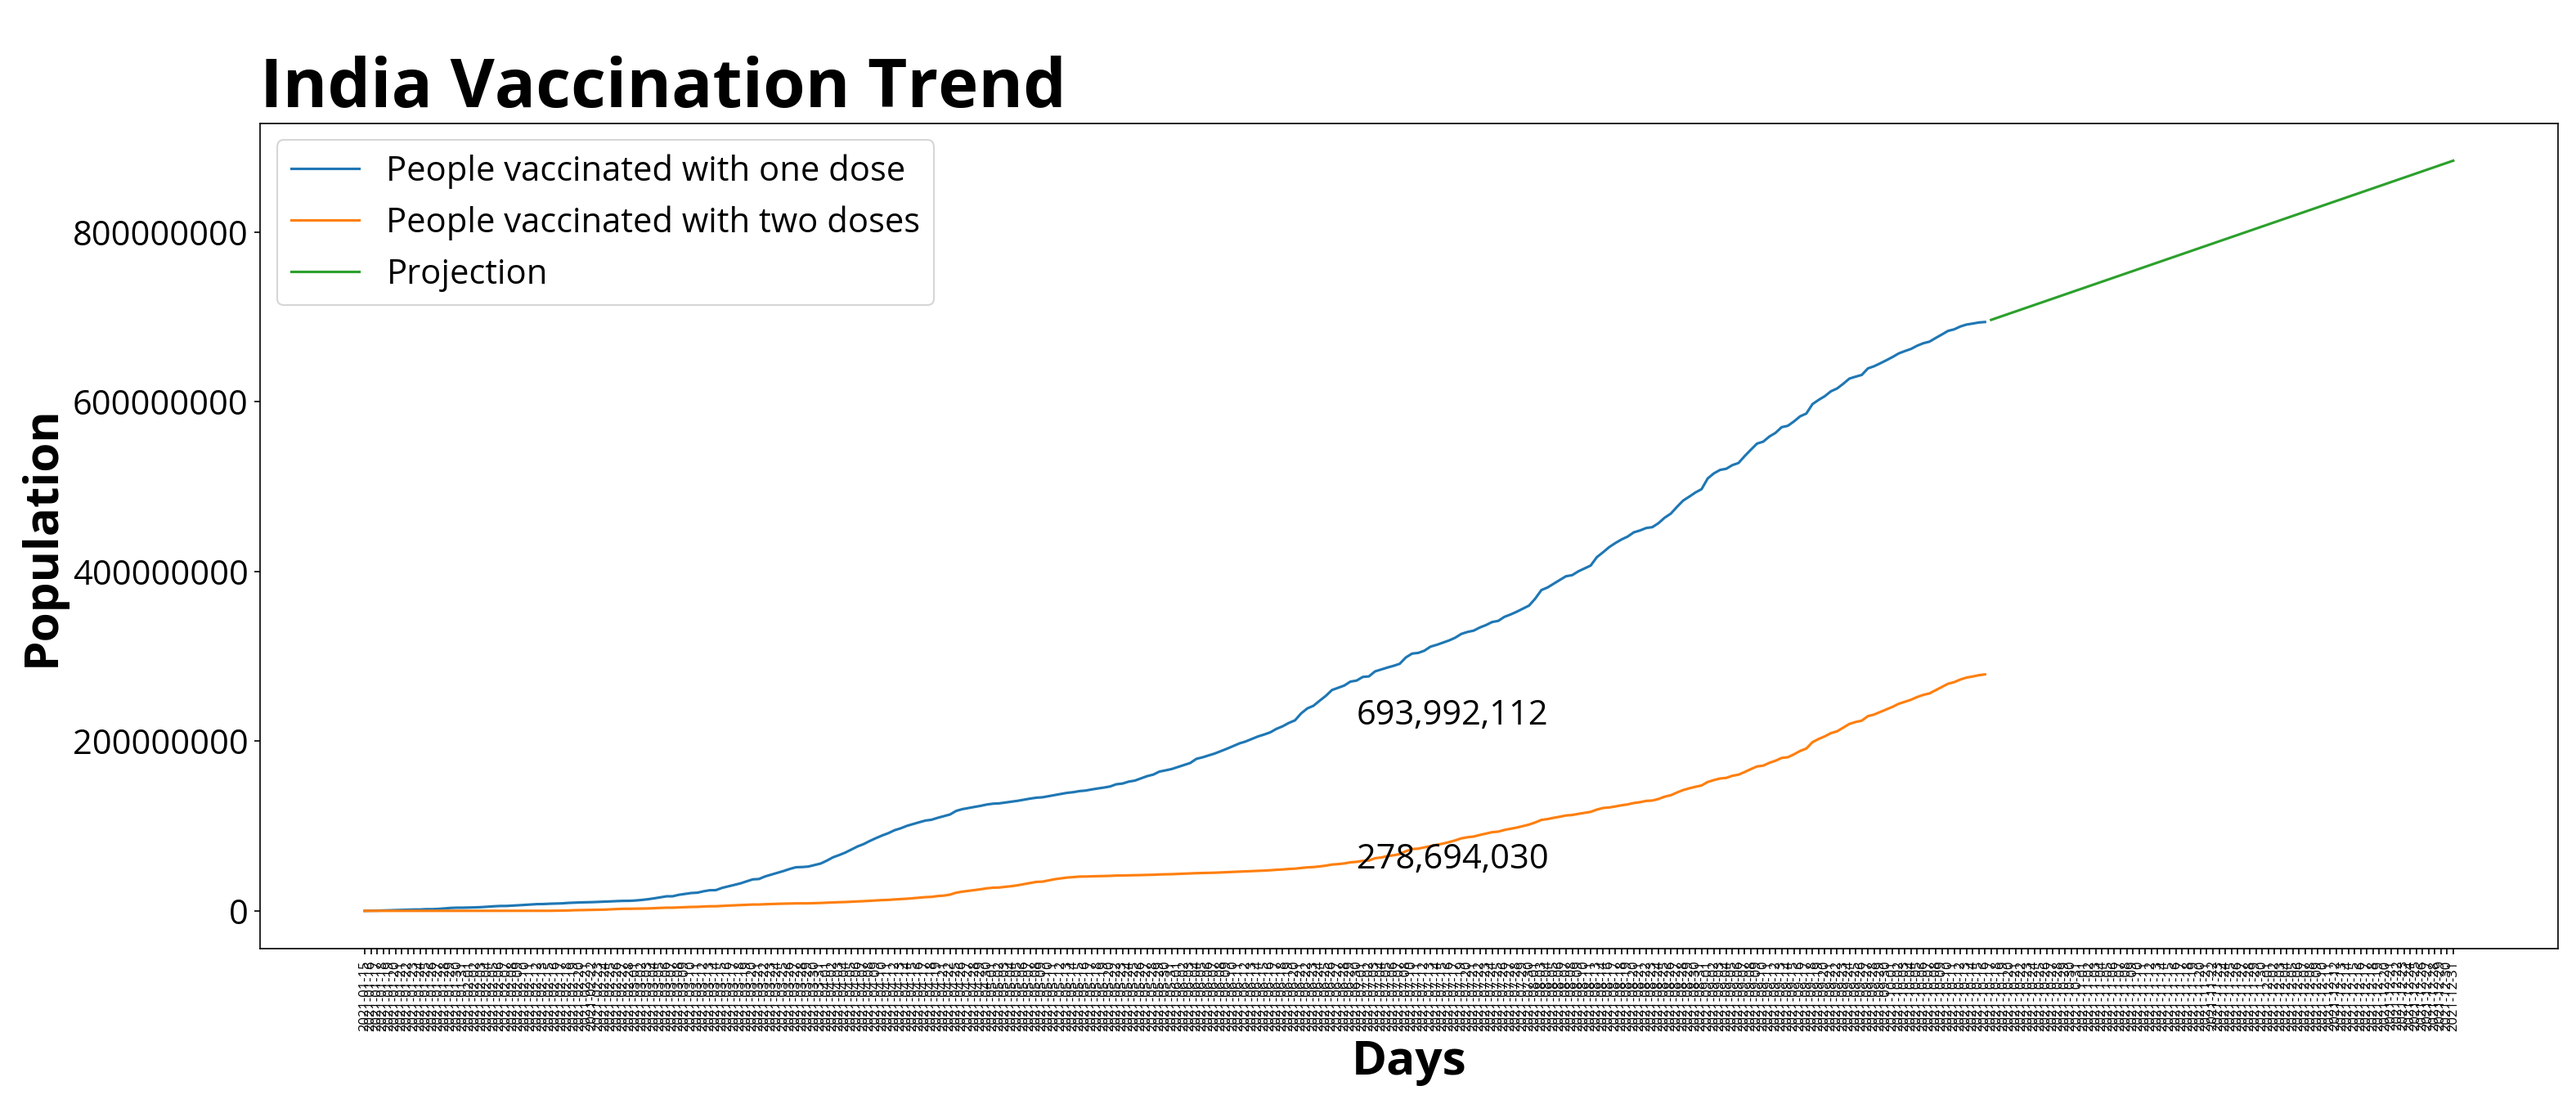
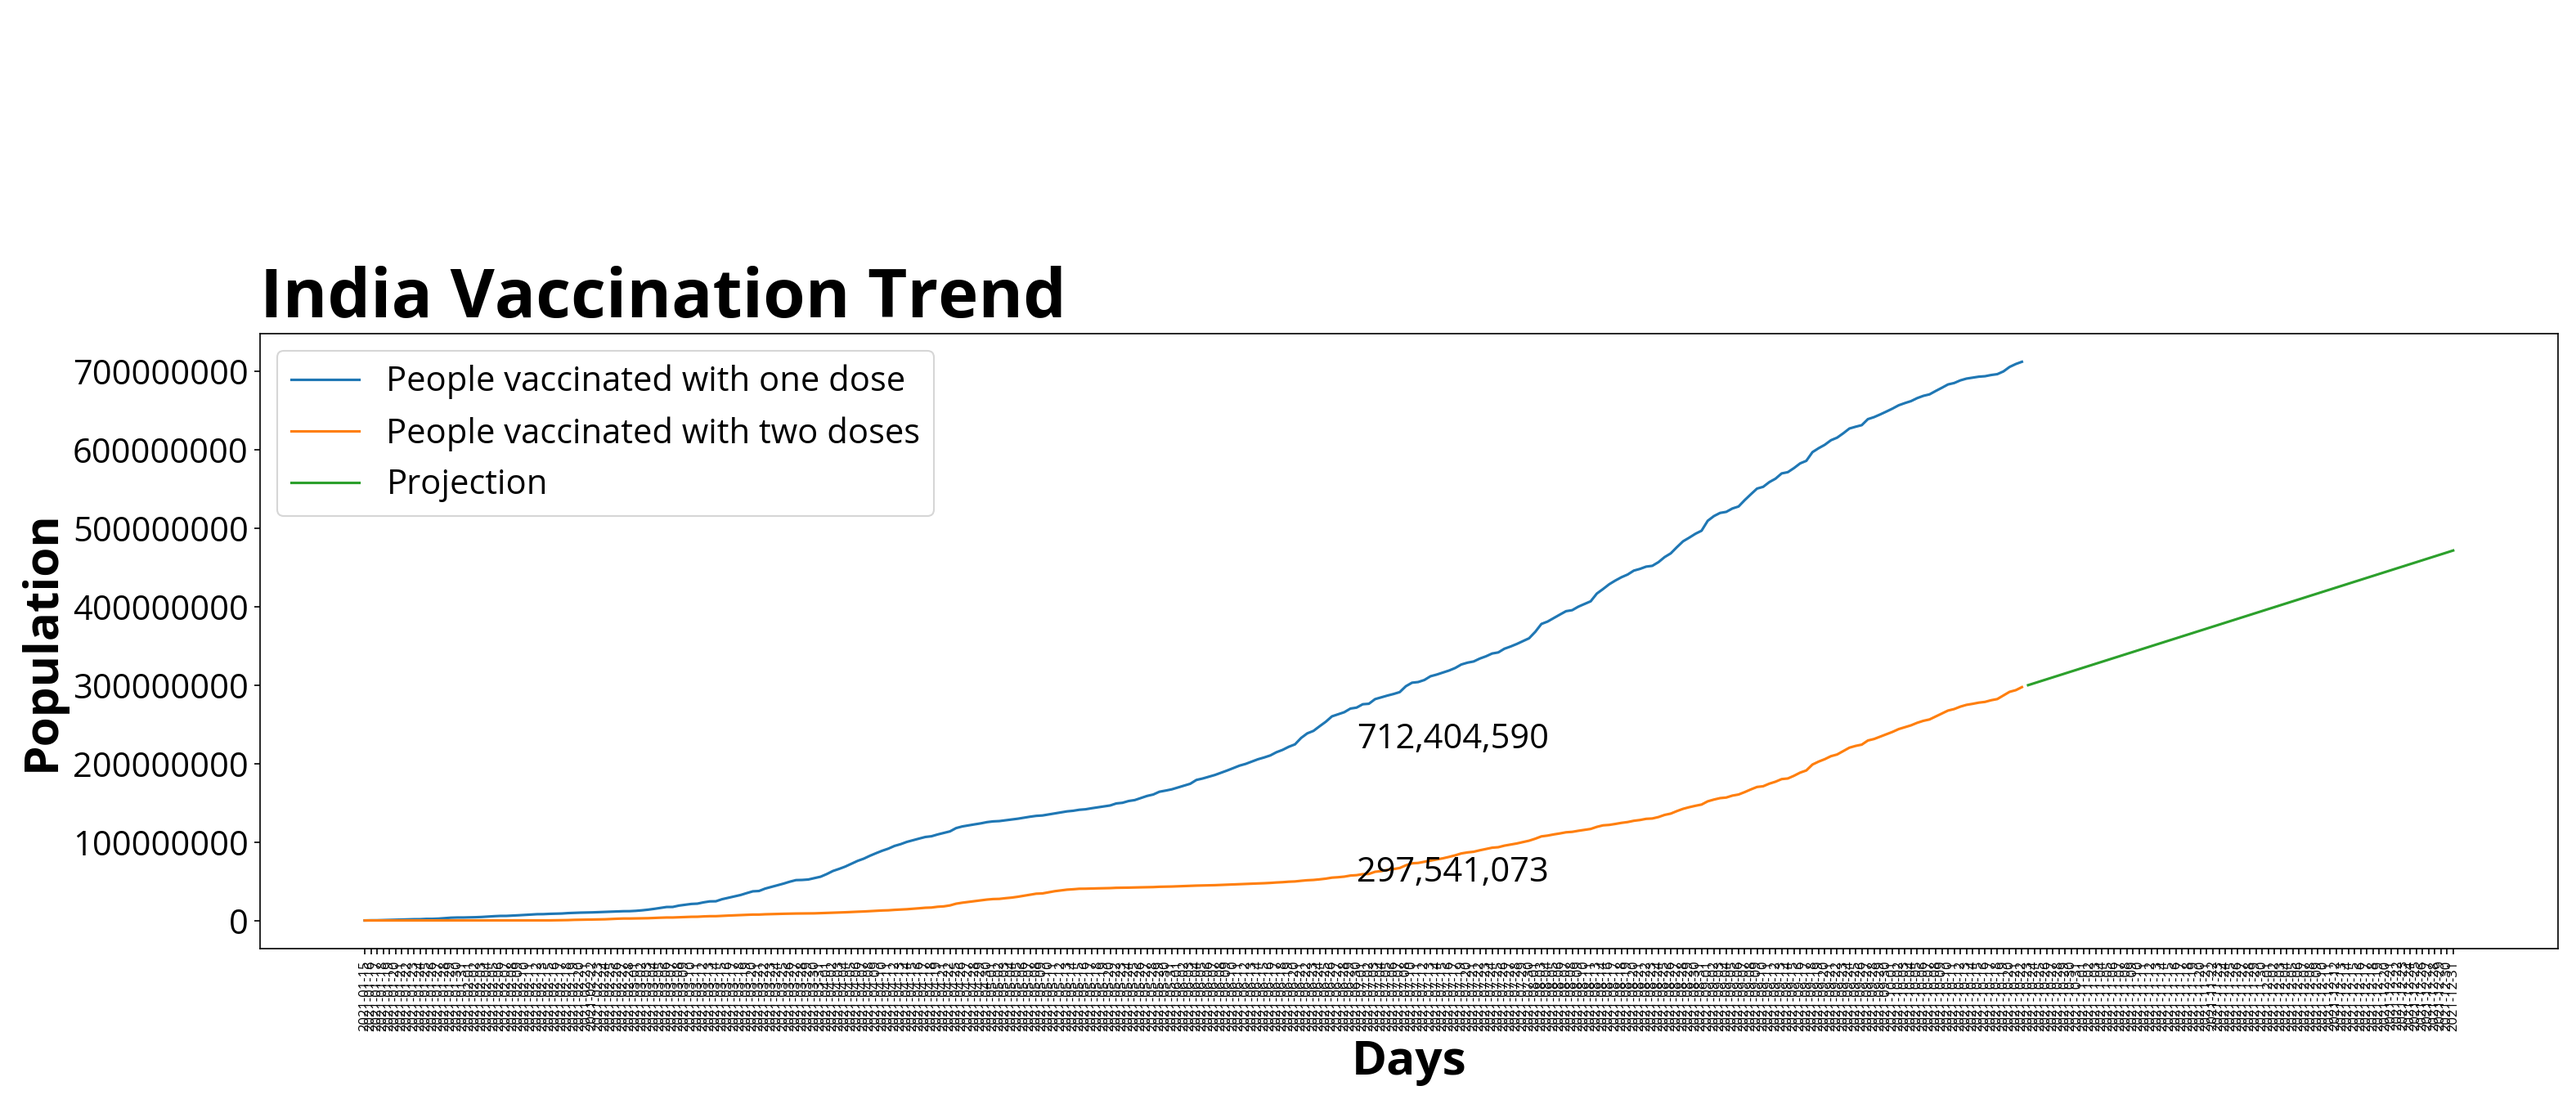
Change plots

diff --git a/vaccination_data.py b/vaccination_data.py
@@ -10,7 +10,8 @@ def main():
 
     # Create dataframe from web URL data
     df = pd.read_csv(src_ind_url)
-    df['daily_d1'] = df['people_vaccinated'].diff()
+    # df['daily_d1'] = df['people_vaccinated'].diff()
+    df['daily_d2'] = df['people_fully_vaccinated'].diff()
     df0 = df.set_index('date')
     print(df0.tail())
     
@@ -29,27 +30,30 @@ def main():
     single_so_far = df['people_vaccinated'].iloc[-1]
     full_so_far = df['people_fully_vaccinated'].iloc[-1]
     target_population = 1000000000
-    balance_population = target_population - single_so_far
+    # balance_population = target_population - single_so_far
+    balance_population = target_population - full_so_far
     rvr = round(balance_population / duration)  # required vaccination rate
     block = 10  # set of days to caluculate the current rate from
-    cvr = round(df['daily_d1'].tail(block).mean()) # current vaccination rate
+    cvr = round(df['daily_d2'].tail(block).mean()) # current vaccination rate
 
     # calculate forecast numbers
-    max_till_now = df['daily_d1'].max()
-    max_possible = single_so_far + cvr * duration
+    max_till_now = df['daily_d2'].max()
+    # max_possible = single_so_far + cvr * duration
+    max_possible = full_so_far + cvr * duration
     trail = target_population - max_possible
     balance_days = round(balance_population / cvr)
     new_deadline_obj = latest_date_obj + timedelta(days=balance_days)
     new_deadline_disp = datetime.strftime(new_deadline_obj, '%d %B %Y')
-    projection = [(single_so_far + period*cvr) for period in range(1,len(dts)+1)] 
-    df_proj_s = pd.Series(projection, index=dts, name='projected_d1')
+    # projection = [(single_so_far + period*cvr) for period in range(1,len(dts)+1)] 
+    projection = [(full_so_far + period*cvr) for period in range(1,len(dts)+1)] 
+    df_proj_s = pd.Series(projection, index=dts, name='projected_d2')
     df_proj_df = df_proj_s.to_frame()
     df2 = df0.append(df_proj_df)
     # print(df2.tail())
     
     # Display information on screen
     print(f'India COVID Vaccination Summary until {last_date_disp}')
-    print(f'Vaccinated {single_so_far:,} out of {target_population:,} with only single dose.')
+    print(f'Vaccinated {full_so_far:,} out of {target_population:,} with only single dose.')
     print(f'Need {balance_population:,} in {duration} days until {deadline_disp} @ {rvr:,} per day.')
     print(f'Current vaccination rate (last {block} days average): {cvr:,} per day.')
     print(f'May get only {max_possible:,} and will trail by {trail:,}.')
@@ -105,7 +109,7 @@ def main():
     # plt.show()
 
     fig2 = plt.figure(figsize=(21,9), dpi=150, facecolor=None, edgecolor=None, frameon=False)
-    plt.bar(df0.index, df0['daily_d1'], color='orange', label='Daily vaccination count')
+    plt.bar(df0.index, df0['daily_d2'], color='orange', label='Daily vaccination count')
     plt.plot(df0['cvr'], color='green', label='CVR')
     plt.plot(df0['rvr'], color='red', label='RVR') 
     plt.title('India Vaccination Trend', loc='left', fontname=font_name, fontsize=40, fontweight='bold')
@@ -126,7 +130,7 @@ def main():
     fig3 = plt.figure(figsize=(21,9), dpi=150, facecolor=None, edgecolor=None, frameon=False)
     plt.plot(df2['people_vaccinated'], label='People vaccinated with one dose')
     plt.plot(df2['people_fully_vaccinated'], label='People vaccinated with two doses')
-    plt.plot(df2['projected_d1'], label='Projection')
+    plt.plot(df2['projected_d2'], label='Projection')
     plt.title('India Vaccination Trend', loc='left', fontname=font_name, fontsize=40, fontweight='bold')
     plt.xlabel('Days', fontname=font_name, fontsize=28, fontweight='bold')
     plt.ylabel('Population', fontname=font_name, fontsize=28, fontweight='bold')
